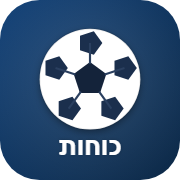
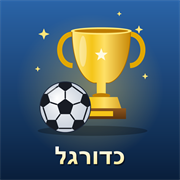
Add files via upload

diff --git a/index.html b/index.html
@@ -2,13 +2,13 @@
 <meta charset="utf-8">
 <meta name="viewport" content="width=device-width,initial-scale=1,viewport-fit=cover">
 <meta name="theme-color" content="#0d2947">
-<title>כוחות</title>
+<title>כדורגל חמישי/מוצ״ש</title>
 <link rel="manifest" href="manifest.webmanifest">
 <link rel="apple-touch-icon" href="apple-touch-icon.png">
 <meta name="apple-mobile-web-app-capable" content="yes">
 <meta name="mobile-web-app-capable" content="yes">
 <meta name="apple-mobile-web-app-status-bar-style" content="black-translucent">
-<meta name="apple-mobile-web-app-title" content="כוחות">
+<meta name="apple-mobile-web-app-title" content="חמישי/מוצ״ש">
 <style>
 *{box-sizing:border-box;-webkit-tap-highlight-color:transparent}
 :root{
@@ -181,7 +181,7 @@ body.standalone .gear{display:none!important}
  </div>
 </div>
 
-<div class="foot">גרסה 46 · מתעדכן אוטומטית</div>
+<div class="foot">גרסה 51 · מתעדכן אוטומטית</div>
 </main>
 
 <div class="install" id="install">
